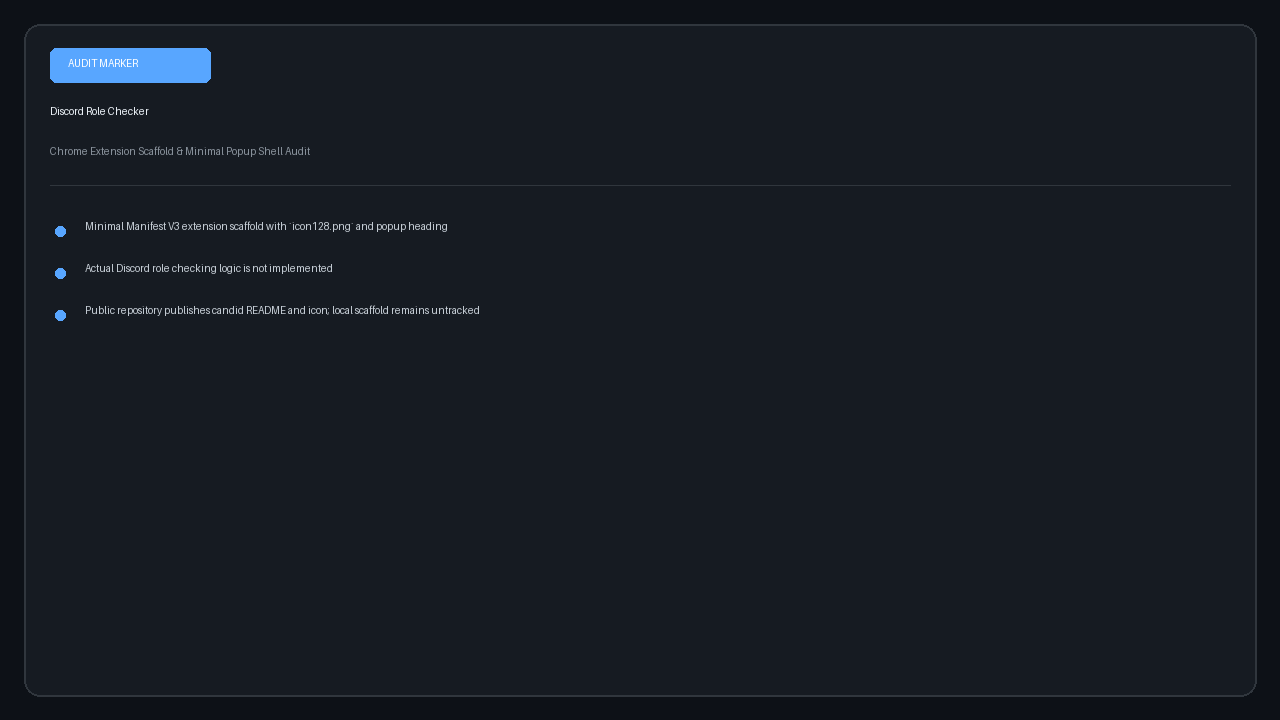
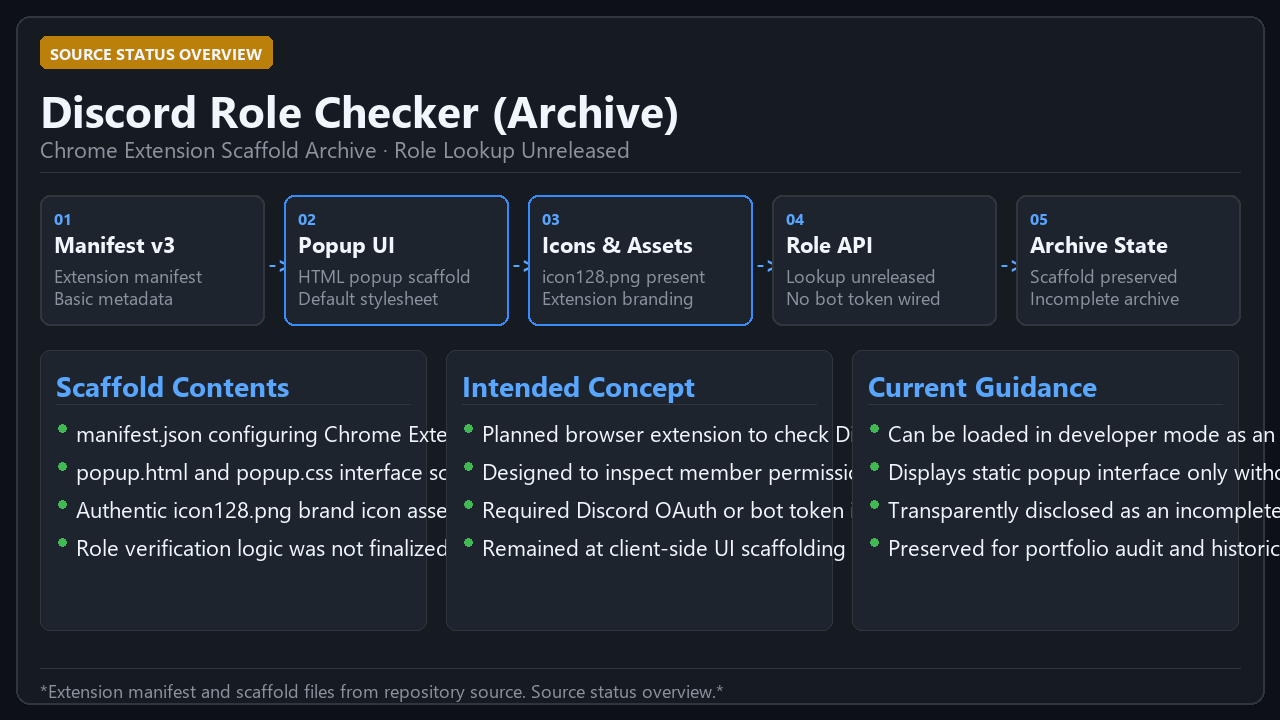
docs: record transparent archive status and project scope

diff --git a/README.md b/README.md
@@ -1,27 +1,28 @@
-# Discord Role Checker · Extension Scaffold
+# Discord Role Checker
 
-> **Manifest V3 Chrome extension scaffold and minimal popup interface audit.**
+[![Discord Role Checker](media/overview.png)](media/walkthrough.mp4)
+*Click preview above to view source status overview.*
 
-[![Scaffold Overview](media/overview.png)](media/walkthrough.mp4)
+![Discord Role Checker icon](icon128.png)
 
-*Click the preview card above to watch the scaffold walkthrough.*
+**Status: incomplete Chrome extension scaffold. Role checking is not implemented.**
 
----
+The idea has a name and an icon; the useful part still needs building. Today this repo helps set expectations, not check anyone's roles.
 
-## Repository Status
+The recovered local folder contains a Manifest V3 extension shell, but this public repository publishes only this README and the existing icon. The local source has not been mirrored here, so this repository is not an installable extension.
 
-This repository tracks a minimal Manifest V3 Chrome extension scaffold and its official icon (`icon128.png`). 
+## What the local scaffold currently contains
 
-> [!NOTE]
-> **Implementation Scope:** The popup shell and manifest permissions (`storage`, `activeTab`, `scripting`) are scaffolded, but Discord API role lookup logic is not implemented. The repository honestly sets expectations as a work-in-progress prototype.
+- `manifest.json` identifies a Chrome Manifest V3 extension and declares a popup, background service worker, and extension icons.
+- `index.html` displays only a static “Discord Role Checker” heading.
+- `service-worker.js` defines an action-click handler that attempts to inject a JavaScript alert into the active tab.
 
-## What Is Included
+There is no Discord page inspection, member or role lookup, API integration, or role-results UI in the recovered source. The alert handler is not a role-checking feature.
 
-- **Extension Icon:** Tracked at `icon128.png`.
-- **Scaffold Architecture:** MV3 background service worker and popup layout definitions.
-- **Documentation:** Candid status notes explaining current project boundaries.
+## Permissions to review
+
+The local manifest requests `storage`, `activeTab`, and `scripting`, and lists the broad `https://*/*` host permission twice. Narrow host permissions to the sites actually required before publishing or distributing an implementation.
 
 ## Media
 
-- **Scaffold Card:** `media/overview.png`
-- **Walkthrough Video:** `media/walkthrough.mp4`
+The included icon is the only current visual asset. No meaningful interface screenshot is available because the popup is still a heading-only placeholder.
